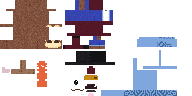
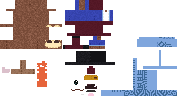
fixed simon and cushion

diff --git a/changelog.md b/changelog.md
@@ -1,1 +1,1 @@
-- added ale, otter, sloth plushies
+- fixed simon model and cushion recipe
